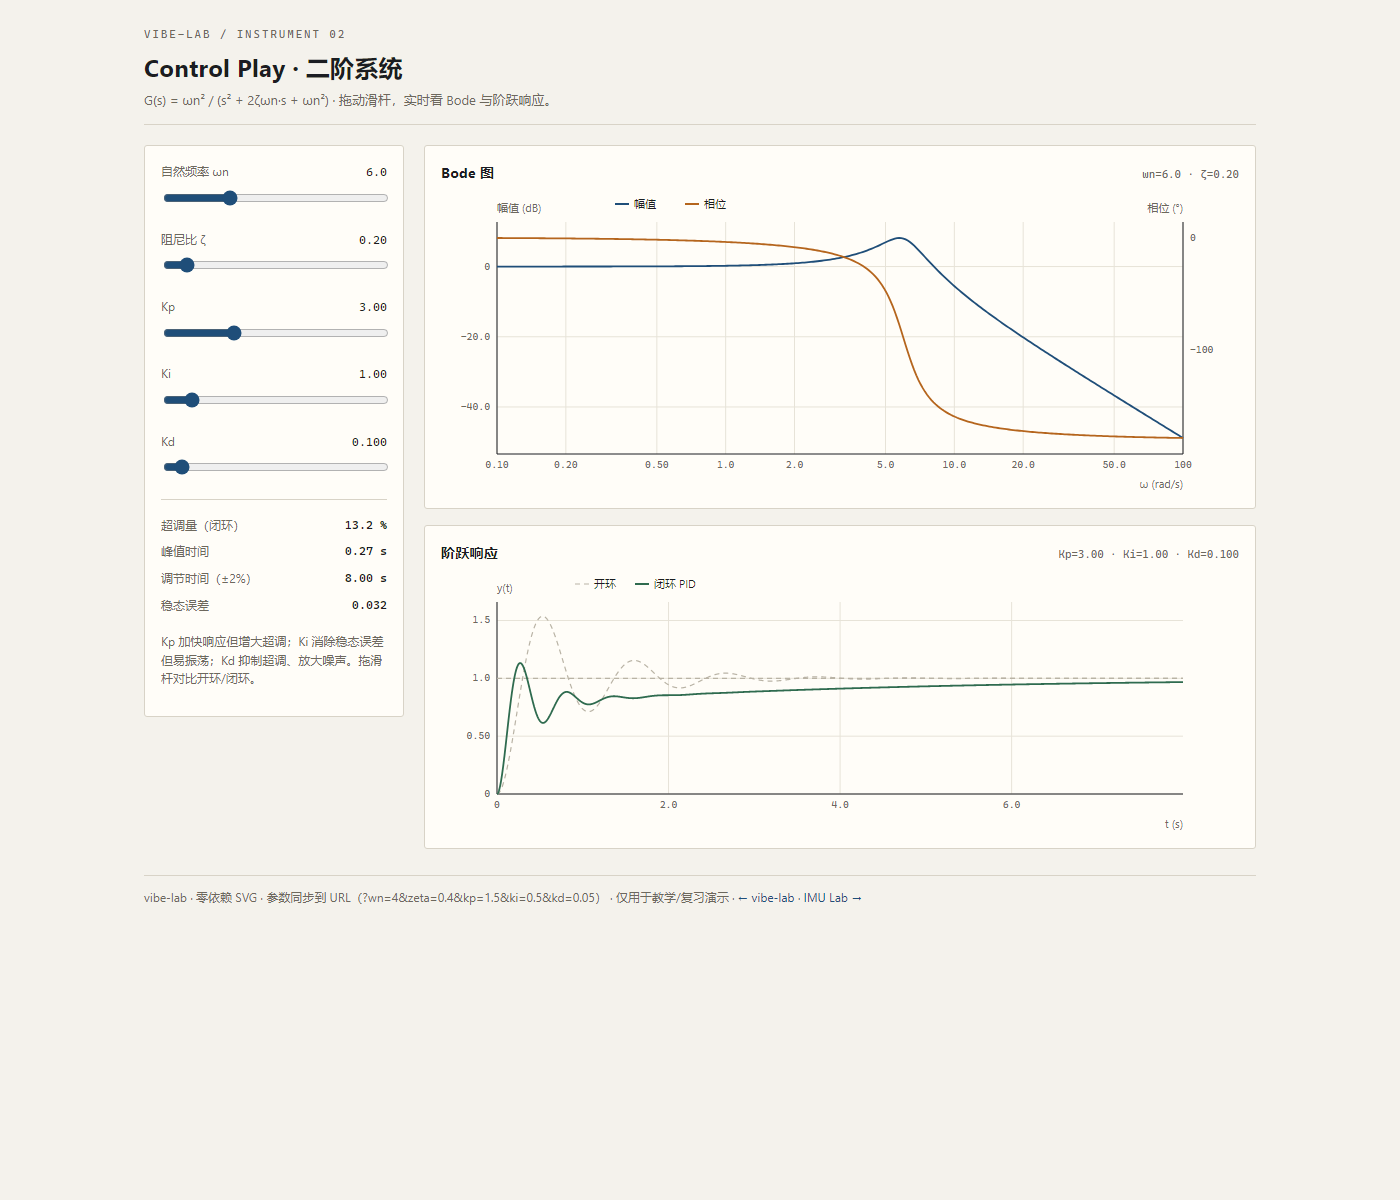
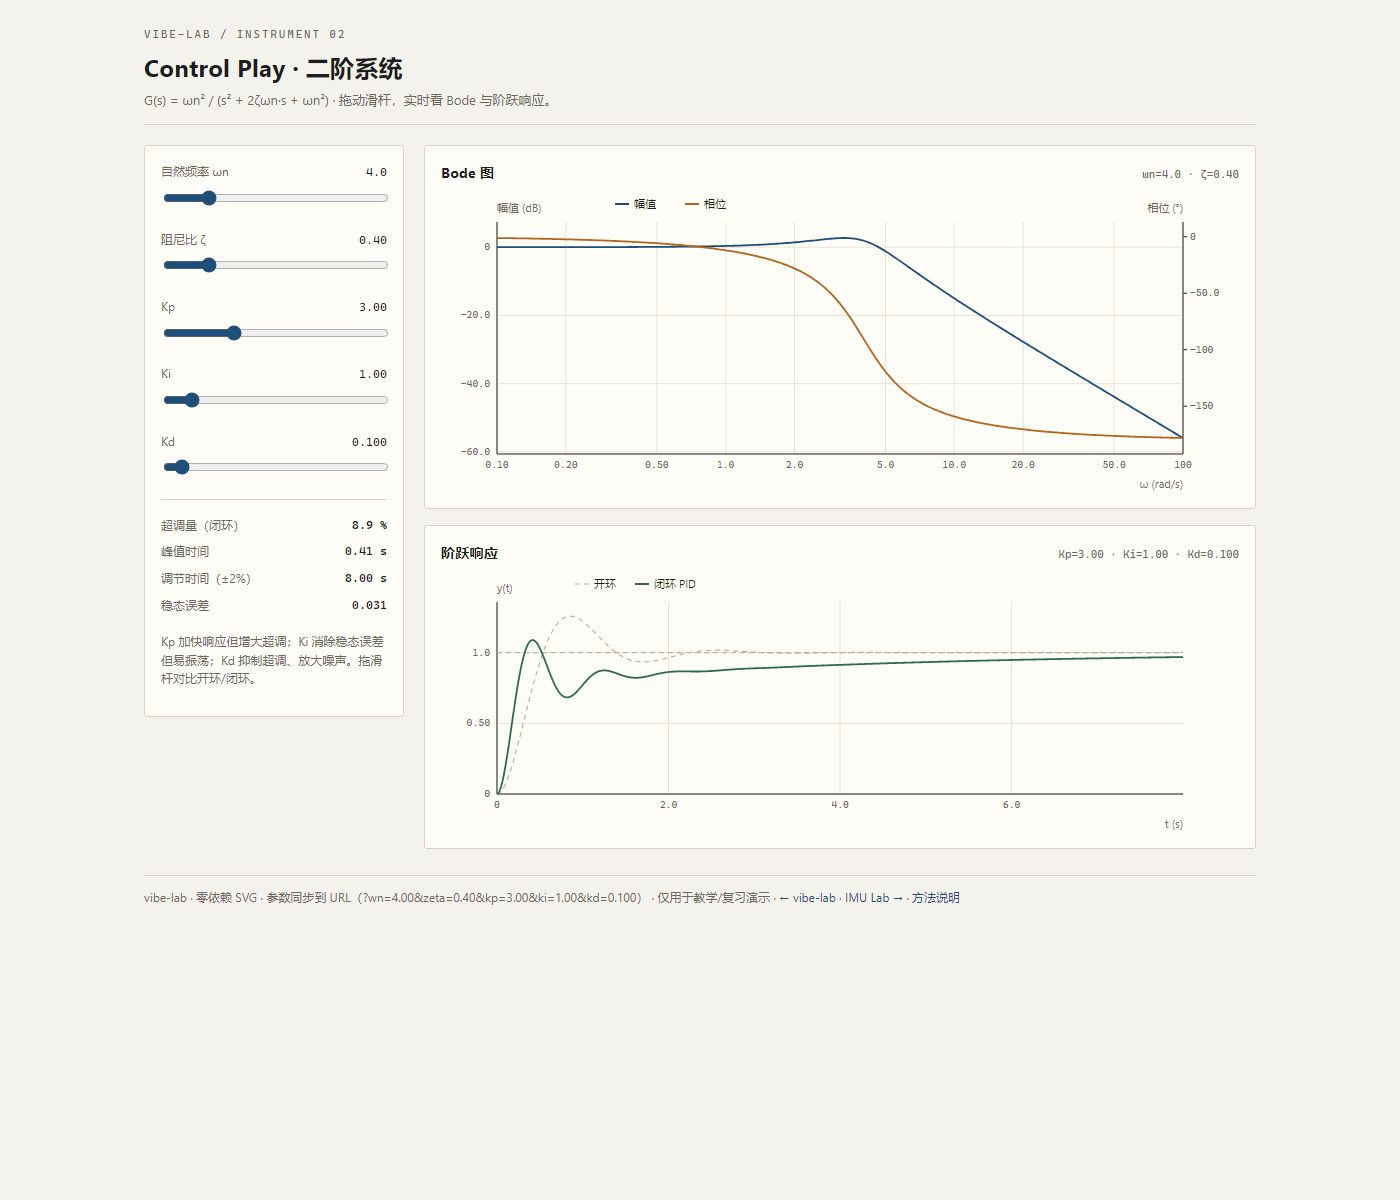
feat: about page, upload validation, touch hover, axis/footer polish, DOM smoke test

diff --git a/about/index.html b/about/index.html
@@ -1,0 +1,54 @@
+<!DOCTYPE html>
+<html lang="zh-CN">
+<head>
+  <meta charset="utf-8" />
+  <meta name="viewport" content="width=device-width, initial-scale=1" />
+  <title>方法说明 · vibe-lab</title>
+  <link rel="stylesheet" href="style.css" />
+</head>
+<body>
+  <div class="wrap">
+    <header>
+      <div class="kicker">vibe-lab / method</div>
+      <h1>方法说明与局限</h1>
+      <p class="sub">这两个工具里每个数字是怎么来的，以及哪些地方不能当真。</p>
+    </header>
+
+    <h2>1. IMU 数据实验室</h2>
+    <p><strong>CRC 清洗。</strong>静态零速下陀螺出现 ±200 °/s 的样本，物理上不可能，来源是串口误码。页面先剔除 <code>crc_ok=0</code> 的帧，再剔除任一角速度超过 5 °/s 的帧；否则一组坏帧会把 Allan 曲线的短 τ 段抬高一个量级。</p>
+    <p><strong>Allan 方差。</strong>对每个簇时间 τ，用重叠式 Allan 标准差 σ(τ) 估计随机噪声结构。白噪声段满足 σ(τ)=N/√τ，随机游走段满足 σ(τ)=K√(τ/3)。</p>
+    <p><strong>ARW / RRW 拟合。</strong>短 τ 段取 <code>N = median(σ√τ)</code>，长 τ 段取 <code>K = median(σ/√(τ/3))</code>；再用双项模型 σ=√(N²/τ + K²τ/3) 在 log 空间计算 R²，并用分位数给出 95% 区间。这是工程近似，不是最大似然拟合。</p>
+    <p><strong>R/Q 映射。</strong>采用 <code>R=(ARW/60)²·Δt</code>、<code>Q=(RRW/60)²·Δt</code>；R/Q 与采样率无关。卡尔曼滤波是一维随机游走模型，只用于演示“Q 大更抖、Q 小更平滑”的定性关系。</p>
+    <div class="note">示例数据是 60 s 合成数据，只能跑通流程；RRW 在短数据上区间很宽（0.63–2.05），真实标定请用 ≥2 h 静态数据。</div>
+
+    <h2>2. Control Play</h2>
+    <p><strong>被控对象。</strong>G(s)=ωn²/(s²+2ζωn·s+ωn²)，Bode 由解析式直接计算。</p>
+    <p><strong>闭环仿真。</strong>PID 控制量 <code>u=Kp·e+Ki∫e+Kd·ė</code>，积分限幅 ±10、控制量限幅 ±20，用 2 ms 步长显式欧拉积分。指标（超调、峰值时间、调节时间、稳态误差）由仿真序列计算。</p>
+    <div class="note">这是教学演示，不是控制系统设计工具；高频参数下欧拉积分精度有限，也没有抗饱和/噪声滤波。</div>
+
+    <h2>3. 可复现性</h2>
+    <ul>
+      <li>全部计算在浏览器内完成，无后端、无数据上传；</li>
+      <li>参数写入 URL，可直接复现同一组 R/Q 或 PID；</li>
+      <li>算法模块 <code>allan.js</code>、<code>kf.js</code>、<code>fit.js</code> 有 Node 单测；</li>
+      <li>源码：<a href="https://github.com/xingd5478-ctrl/vibe-lab" target="_blank" rel="noreferrer">github.com/xingd5478-ctrl/vibe-lab</a>。</li>
+    </ul>
+
+    <footer>
+      <a href="../">← vibe-lab</a> · <a href="../imu/" data-nav="imu">IMU Lab</a> · <a href="../control/" data-nav="control">Control Play</a>
+    </footer>
+  </div>
+
+  <script>
+    (function () {
+      if (location.protocol !== "file:") return;
+      document.querySelectorAll("[data-nav]").forEach(function (a) {
+        var t = a.getAttribute("data-nav");
+        a.href = t === "imu" ? "../imu-lab/static/index.html" : "../control-play/index.html";
+      });
+      var home = document.querySelector('footer a[href="../"]');
+      if (home) home.href = "../landing/index.html";
+    })();
+  </script>
+</body>
+</html>

diff --git a/imu-lab/static/app.js b/imu-lab/static/app.js
@@ -202,7 +202,7 @@
       return best;
     };
 
-    svg.addEventListener("mousemove", (ev) => {
+    const onMove = (ev) => {
       const rect = svg.getBoundingClientRect();
       const frac = Math.min(1, Math.max(0, (ev.clientX - rect.left) / rect.width));
       const xv = meta.xInv(frac);
@@ -211,7 +211,7 @@
       line.setAttribute("x1", px);
       line.setAttribute("x2", px);
       line.setAttribute("opacity", "1");
-      dot.setAttribute("cx", meta.X(first[0]));
+      dot.setAttribute("cx", px);
       dot.setAttribute("cy", meta.Y(first[1]));
       dot.setAttribute("opacity", "1");
       let text = `${meta.xLabel} ${fmt(first[0])} · ${meta.series[0].name} ${fmt(first[1])}`;
@@ -221,10 +221,13 @@
       }
       tip.textContent = text;
       tip.style.left = `${(px / meta.w) * 100}%`;
-      tip.style.top = `${Math.max(8, (dot.getAttribute("cy") / meta.h) * 100 - 4)}%`;
+      tip.style.top = `${Math.max(8, (Number(dot.getAttribute("cy")) / meta.h) * 100 - 4)}%`;
       tip.style.opacity = "1";
-    });
-    svg.addEventListener("mouseleave", () => {
+    };
+
+    svg.addEventListener("pointermove", onMove);
+    svg.addEventListener("pointerdown", onMove);
+    svg.addEventListener("pointerleave", () => {
       tip.style.opacity = "0";
       line.setAttribute("opacity", "0");
       dot.setAttribute("opacity", "0");
@@ -529,10 +532,22 @@
     $("file").addEventListener("change", (ev) => {
       const f = ev.target.files && ev.target.files[0];
       if (!f) return;
+      if (f.size > 20 * 1024 * 1024) {
+        flash("文件超过 20 MB，请先降采样");
+        ev.target.value = "";
+        return;
+      }
       const reader = new FileReader();
       reader.onload = () => {
-        const rows = parseCSV(String(reader.result));
-        if (!rows.length) { alert("没有解析到有效数据，请检查列名。"); return; }
+        const text = String(reader.result);
+        const head = text.split(/\r?\n/)[0] || "";
+        if (!/gx_dps/i.test(head) || !/gy_dps/i.test(head) || !/gz_dps/i.test(head)) {
+          flash("CSV 缺少列：gx_dps / gy_dps / gz_dps");
+          return;
+        }
+        const rows = parseCSV(text);
+        if (!rows.length) { flash("没有解析到有效数据，请检查列名与分隔符"); return; }
+        if (rows.length > 200000) { flash("行数超过 20 万，请先降采样再上传"); return; }
         state.rows = rows;
         state.source = f.name;
         invalidate();

diff --git a/control-play/app.js b/control-play/app.js
@@ -122,7 +122,7 @@
       return best;
     };
 
-    svg.addEventListener("mousemove", (ev) => {
+    const onMove = (ev) => {
       const rect = svg.getBoundingClientRect();
       const frac = Math.min(1, Math.max(0, (ev.clientX - rect.left) / rect.width));
       const xv = meta.xInv(frac);
@@ -139,8 +139,11 @@
       tip.style.left = `${(px / meta.w) * 100}%`;
       tip.style.top = `${Math.max(8, (Number(dot.getAttribute("cy")) / meta.h) * 100 - 4)}%`;
       tip.style.opacity = "1";
-    });
-    svg.addEventListener("mouseleave", () => {
+    };
+
+    svg.addEventListener("pointermove", onMove);
+    svg.addEventListener("pointerdown", onMove);
+    svg.addEventListener("pointerleave", () => {
       tip.style.opacity = "0";
       line.setAttribute("opacity", "0");
       dot.setAttribute("opacity", "0");
@@ -167,8 +170,9 @@
       svg += `<line class="grid" x1="${PAD.l}" y1="${y}" x2="${w - PAD.r}" y2="${y}"/>`;
       svg += `<text class="tick-label" x="${PAD.l - 7}" y="${y + 3}" text-anchor="end">${fmt(v)}</text>`;
     });
-    linTicks(phMin, phMax, 4).forEach((v) => {
+    linTicks(phMin, phMax, 6).forEach((v) => {
       const y = Yp(v);
+      svg += `<line x1="${w - PAD.r}" y1="${y}" x2="${w - PAD.r + 4}" y2="${y}" stroke="#1b1d22" stroke-width="1"/>`;
       svg += `<text class="tick-label" x="${w - PAD.r + 7}" y="${y + 3}" text-anchor="start">${fmt(v)}</text>`;
     });
     logTicks(b.w[0], b.w[b.w.length - 1]).forEach((v) => {
@@ -275,6 +279,8 @@
     $("ess").textContent = m.ess.toFixed(3);
     $("meta-bode").textContent = `ωn=${wn.toFixed(1)} · ζ=${zeta.toFixed(2)}`;
     $("meta-step").textContent = `Kp=${kp.toFixed(2)} · Ki=${ki.toFixed(2)} · Kd=${kd.toFixed(3)}`;
+    const params = `?wn=${state.wn.toFixed(2)}&zeta=${state.zeta.toFixed(2)}&kp=${state.kp.toFixed(2)}&ki=${state.ki.toFixed(2)}&kd=${state.kd.toFixed(3)}`;
+    if ($("url-params")) $("url-params").textContent = params;
     syncURL();
   }
 

diff --git a/about/style.css b/about/style.css
@@ -1,0 +1,73 @@
+:root {
+  --paper: #f4f2ec;
+  --ink: #1b1d22;
+  --muted: #6d685d;
+  --line: #d8d3c7;
+  --accent: #1f4e79;
+}
+
+* { box-sizing: border-box; }
+html, body { margin: 0; padding: 0; }
+
+body {
+  background: var(--paper);
+  color: var(--ink);
+  font-family: "Segoe UI", "Microsoft YaHei", "Source Han Sans SC", system-ui, sans-serif;
+  font-size: 15px;
+  line-height: 1.75;
+  -webkit-font-smoothing: antialiased;
+}
+
+.wrap { max-width: 760px; margin: 0 auto; padding: 0 24px 56px; }
+
+header { padding: 48px 0 20px; border-bottom: 1px solid var(--line); margin-bottom: 24px; }
+
+.kicker {
+  font-family: "Cascadia Mono", Consolas, monospace;
+  font-size: 11px;
+  letter-spacing: 0.2em;
+  color: var(--muted);
+  text-transform: uppercase;
+}
+
+h1 { margin: 10px 0 6px; font-size: 30px; font-weight: 650; }
+.sub { color: var(--muted); margin: 0; }
+
+h2 {
+  margin: 30px 0 8px;
+  font-size: 17px;
+  font-weight: 650;
+  letter-spacing: 0.01em;
+}
+
+p { margin: 0 0 12px; }
+ul { margin: 0 0 14px 20px; padding: 0; }
+li { margin-bottom: 6px; }
+
+code {
+  font-family: "Cascadia Mono", Consolas, monospace;
+  font-size: 0.9em;
+  background: #ece8dd;
+  padding: 1px 5px;
+  border-radius: 2px;
+}
+
+.note {
+  border-left: 2px solid var(--accent);
+  padding: 8px 14px;
+  background: #fbf9f2;
+  color: var(--muted);
+  font-size: 13px;
+  margin: 18px 0;
+}
+
+footer {
+  margin-top: 36px;
+  padding-top: 14px;
+  border-top: 1px solid var(--line);
+  color: var(--muted);
+  font-size: 13px;
+}
+footer a { color: var(--accent); text-decoration: none; }
+
+a { color: var(--accent); }

diff --git a/control-play/index.html b/control-play/index.html
@@ -71,8 +71,8 @@
     </div>
 
     <footer>
-      vibe-lab · 零依赖 SVG · 参数同步到 URL（?wn=4&zeta=0.4&kp=1.5&ki=0.5&kd=0.05） · 仅用于教学/复习演示 ·
-      <a href="../">← vibe-lab</a> · <a href="../imu/">IMU Lab →</a>
+      vibe-lab · 零依赖 SVG · 参数同步到 URL（<span id="url-params">—</span>） · 仅用于教学/复习演示 ·
+      <a href="../">← vibe-lab</a> · <a href="../imu/">IMU Lab →</a> · <a href="../about/">方法说明</a>
     </footer>
   </div>
 

diff --git a/imu-lab/static/index.html b/imu-lab/static/index.html
@@ -113,7 +113,7 @@
 
     <footer>
       vibe-lab · 数据与算法在浏览器内运行 · 工程近似：R=(ARW/60)²·Δt，Q=(RRW/60)²·Δt ·
-      仅用于教学/演示，真实标定以论文流程为准。 · <a href="../">← vibe-lab</a> · <a href="../control/">Control Play →</a>
+      仅用于教学/演示，真实标定以论文流程为准。 · <a href="../">← vibe-lab</a> · <a href="../control/">Control Play →</a> · <a href="../about/">方法说明</a>
     </footer>
   </div>
 

diff --git a/imu-lab/static/style.css b/imu-lab/static/style.css
@@ -166,7 +166,7 @@ input[type="range"] { width: 100%; accent-color: var(--accent); }
 
 .chart { width: 100%; min-height: 220px; position: relative; }
 
-.chart svg { display: block; width: 100%; height: auto; }
+.chart svg { display: block; width: 100%; height: auto; touch-action: none; }
 
 .crosshair { stroke: #8a8478; stroke-width: 1; stroke-dasharray: 3 3; }
 .hover-dot { fill: var(--accent); }

diff --git a/control-play/style.css b/control-play/style.css
@@ -106,7 +106,7 @@ input[type="range"] { width: 100%; accent-color: var(--accent); }
 }
 
 .chart { width: 100%; position: relative; }
-.chart svg { display: block; width: 100%; height: auto; }
+.chart svg { display: block; width: 100%; height: auto; touch-action: none; }
 
 .crosshair { stroke: #8a8478; stroke-width: 1; stroke-dasharray: 3 3; }
 .hover-dot { fill: var(--accent); }

diff --git a/landing/index.html b/landing/index.html
@@ -48,6 +48,7 @@
 
     <footer>
       vibe-lab · 静态站点，数据在浏览器内计算 ·
+      <a href="about/">方法说明</a> ·
       <a href="https://github.com/xingd5478-ctrl/vibe-lab" target="_blank" rel="noreferrer">源码</a>
     </footer>
   </div>

diff --git a/README.md b/README.md
@@ -9,12 +9,14 @@
 ```
 vibe-lab/
 ├── landing/             # 首页：两个工具的入口
+├── about/               # 方法说明与局限
 ├── imu-lab/
 │   ├── static/          # ① IMU 数据实验室（部署到 /imu/）
 │   └── app.py           #    Streamlit 备份
 ├── control-play/        # ② 二阶系统 + PID（部署到 /control/）
 ├── shared/              # Python 共享算法
 ├── tests/               # Node 单测（Allan / KF / 拟合）
+├── scripts/smoke.ps1    # Edge headless DOM 冒烟测试
 ├── data/sample/         # 合成样例数据
 └── .github/workflows/   # Pages 部署
 ```
@@ -34,10 +36,11 @@ python -m http.server 8000
 ## 测试
 
 ```bash
-npm test
+npm test        # 算法单测（8 个）
+npm run smoke   # Edge headless DOM 冒烟（页面渲染 + 拟合 + PID URL）
 ```
 
-覆盖：Allan 方差、坏帧清洗、R/Q 映射、KF 收敛、积分、拟合恢复 ARW/RRW 与 R²。
+覆盖：Allan 方差、坏帧清洗、R/Q 映射、KF 收敛、积分、拟合恢复 ARW/RRW 与 R²；冒烟测试检查页面 SVG、拟合信息、PID 参数与 Bode 轴。
 
 ## 线上结构
 
@@ -46,6 +49,7 @@ npm test
 | `/` | 首页（landing） |
 | `/imu/` | IMU 数据实验室 |
 | `/control/` | Control Play |
+| `/about/` | 方法说明与局限 |
 
 ## 约定
 

diff --git a/imu-lab/README.md b/imu-lab/README.md
@@ -23,9 +23,10 @@ python -m http.server 8000
 - **拟合 ARW/RRW + R² + 95% 分位区间**，图上叠加虚线拟合段
 - **一键把拟合值回填 R/Q**（log10 滑杆）
 - 实时 KF：积分角度 vs 滤波输出
-- **悬浮十字线读数**（时间/Allan/滤波图）
+- **悬浮/触摸十字线读数**（时间/Allan/滤波图）
 - **导出 CSV / 单图 PNG**（2×）
 - **分享链接**：R/Q、通道、采样率写入 URL，可复现
+- **上传校验**：缺少 `gx_dps/gy_dps/gz_dps`、超过 20 万行或 20 MB 时给出提示
 - 页面顶部标注「演示数据」，避免把合成数据当标定结果
 
 ## 数据格式

diff --git a/control-play/README.md b/control-play/README.md
@@ -20,8 +20,8 @@ python -m http.server 8000
 - 开环 vs 闭环阶跃对比
 - 指标：超调、峰值时间、调节时间（±2%）、稳态误差
 - Bode 双 Y 轴（开环）
-- 悬浮十字线读数
-- 参数同步到 URL：`?wn=4&zeta=0.4&kp=1.5&ki=0.5&kd=0.05`
+- 悬浮/触摸十字线读数
+- 参数同步到 URL（footer 实时显示当前参数）：`?wn=4&zeta=0.4&kp=1.5&ki=0.5&kd=0.05`
 
 ## 文件
 
